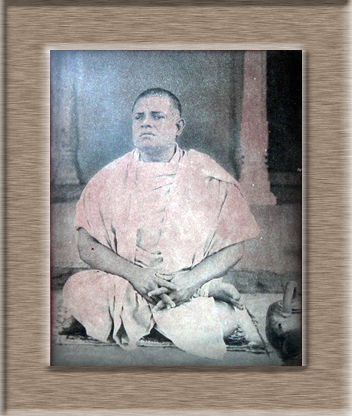
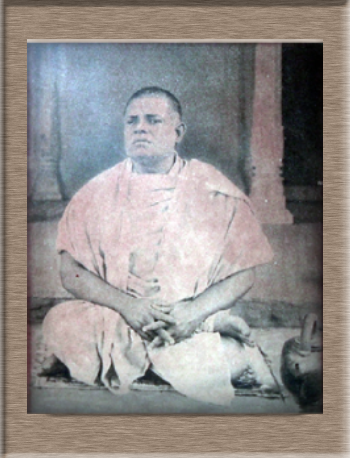
Update pictures of disciples

diff --git a/src/Components/Announcements.jsx b/src/Components/Announcements.jsx
@@ -1,7 +1,7 @@
 import React from "react";
 import "../Styles/Announcements.css";
 import placeholder from "../Assets/placeholder.jpg";
-import img1 from '../Assets/inspiration/Swami_Vivekananda_Jaipur.jpg';
+import dd0 from '../Assets/disciples/DirectDisciples0(vivekananda).png';
 import dd1 from '../Assets/disciples/DirectDisciples1(brahmananda).png';
 import dd2 from '../Assets/disciples/DirectDisciples2(shivananda).png';
 import dd3 from '../Assets/disciples/DirectDisciples3(akhandananda).png';
@@ -26,7 +26,7 @@ export default function Disciples() {
       </div>
       <div className="contents">
           <div class="box">
-            <img src={img1} />
+            <img src={dd0} />
             <p><i></i> Swami Vivekananda</p>
           </div>
           <div class="box">
